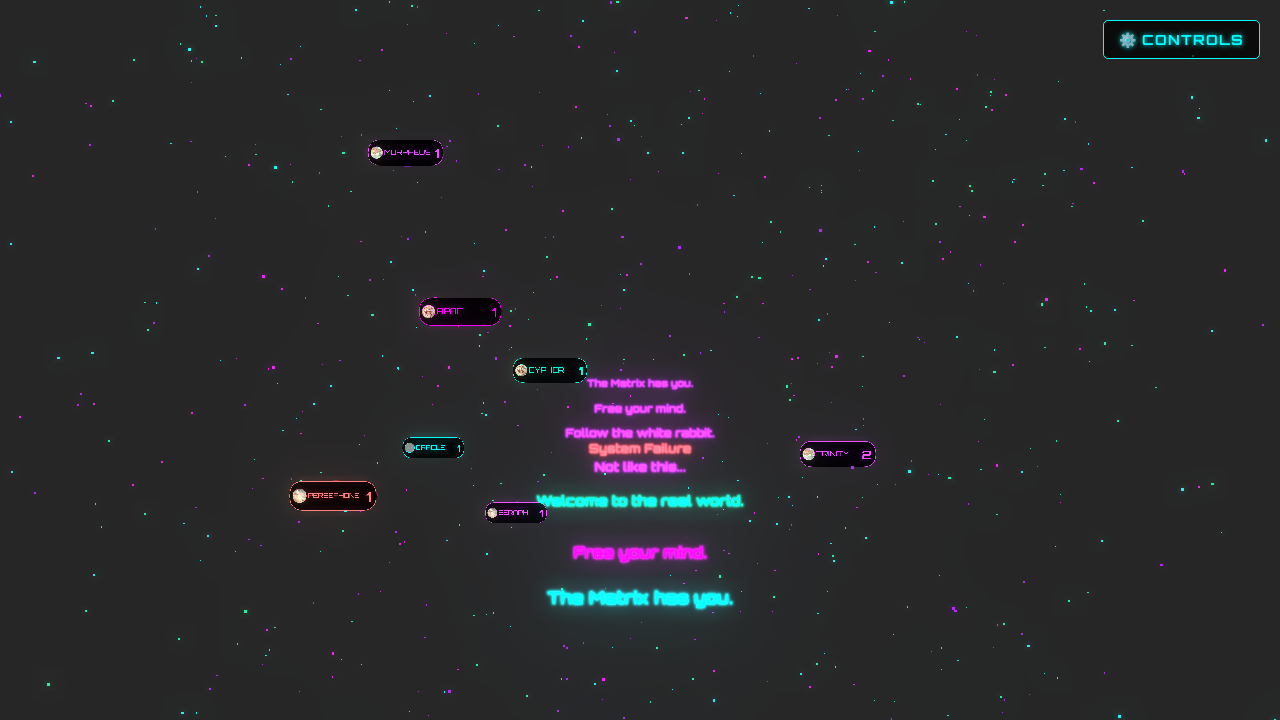
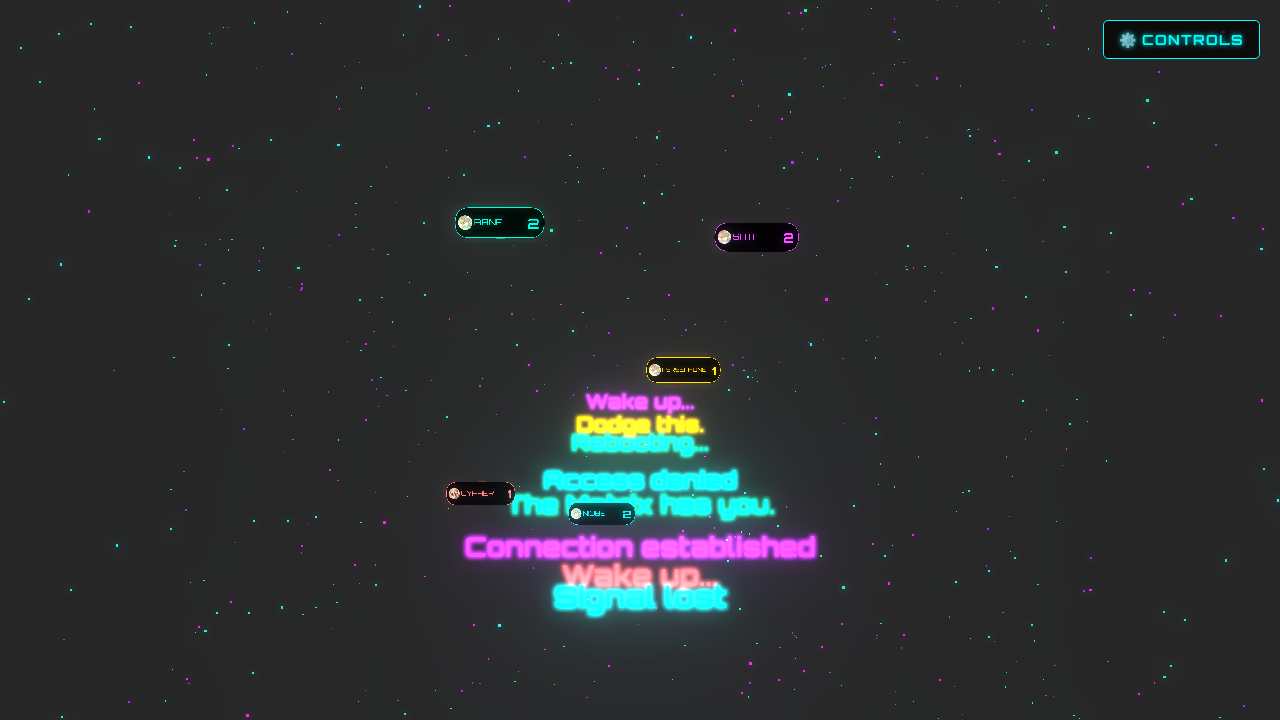
fix: move comment log layer strictly behind user boxes

diff --git a/app.js b/app.js
@@ -790,11 +790,15 @@ class CommentLog {
         const mat = new THREE.SpriteMaterial({ map: tex, transparent: true, opacity: 1.0 });
         const sprite = new THREE.Sprite(mat);
 
-        // Start Position: Bottom Center, slightly back
-        // Screen height ~40 units visible?
-        // y=-25 is below screen.
-        sprite.position.set(0, -35, -20);
-        sprite.scale.set(40, 5, 1); // Wide aspect ratio
+        // Start Position: Bottom Center, DEEP BACKGROUND
+        // UserBoxes go back to z=-40. We start at -60 to ensure no overlap.
+        // Perspective scaling: Further away = smaller, so we scale UP.
+
+        const startZ = -60;
+        const scaleFactor = 2.5; // Compensate for depth
+
+        sprite.position.set(0, -50, startZ); // Start lower (-50) to account for distance
+        sprite.scale.set(40 * scaleFactor, 5 * scaleFactor, 1);
 
         this.scene.add(sprite);
         this.messages.push({
@@ -835,13 +839,13 @@ class CommentLog {
             }
 
             // Movement: Ladder to Heaven
-            // Start: 0, -35, -20
-            // End:   0,  40, -100  (Higher end point as requested)
+            // Start: 0, -50, -60
+            // End:   0,  60, -150  (Deeper and Higher)
 
-            const startY = -35;
-            const endY = 40; // Increased ending height
-            const startZ = -20;
-            const endZ = -100;
+            const startY = -50;
+            const endY = 60;
+            const startZ = -60;
+            const endZ = -150;
 
             // Use quadratic easing for "ladder" feel (start fast, slow at top? or opposite?)
             // Linear is fine for constant flow.
@@ -850,8 +854,9 @@ class CommentLog {
             m.mesh.position.z = startZ + (endZ - startZ) * p;
 
             // Scale: Wide at bottom, Small at top
-            const s = 1.0 - (p * 0.6); // Shrink a bit more at top
-            m.mesh.scale.set(40 * s, 5 * s, 1);
+            const s = 1.0 - (p * 0.5);
+            const scaleFactor = 2.5;
+            m.mesh.scale.set(40 * scaleFactor * s, 5 * scaleFactor * s, 1);
 
             // Fade out near top
             if (p > 0.9) {
